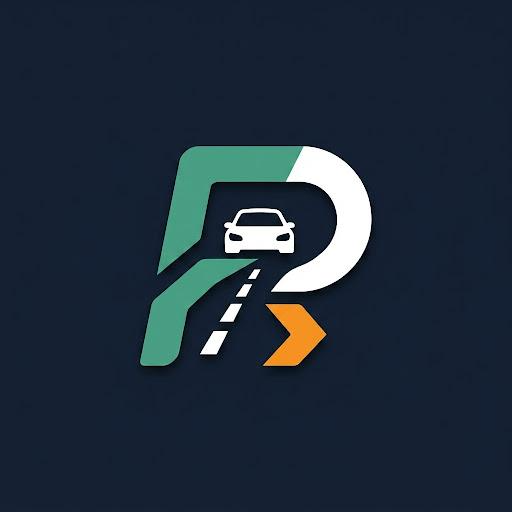
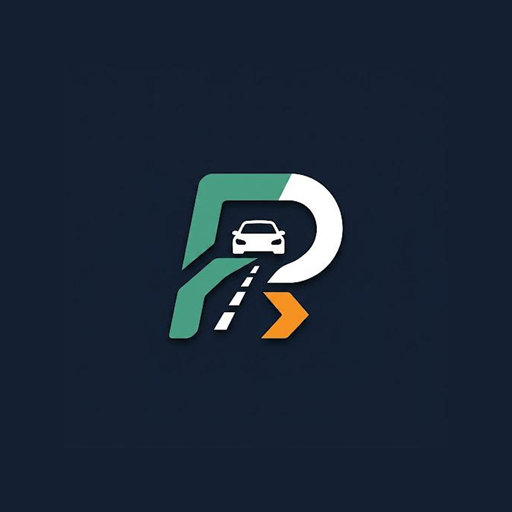
se agrega cambios de ico para instalar pwa

Changed region(s): [[0.25, 0.2812, 0.75, 0.7188]]

diff --git a/index.html b/index.html
@@ -15,10 +15,18 @@
     <meta name="application-name" content="Parking Flow" />
     <meta name="format-detection" content="telephone=no" />
 
-    <!-- Icons -->
-    <link rel="icon" type="image/png" href="/favicon.png" />
-    <link rel="shortcut icon" href="/favicon.ico" />
-    <link rel="apple-touch-icon" sizes="180x180" href="/apple-touch-icon.png" />
+    <!-- Manifest -->
+    <link rel="manifest" href="/manifest.webmanifest" />
+
+    <!-- Icons & Apple Touch Icons -->
+    <link rel="icon" type="image/png" href="/favicon.png?v=0.0.39" />
+    <link rel="shortcut icon" href="/favicon.ico?v=0.0.39" />
+    <link rel="apple-touch-icon" href="/apple-touch-icon.png?v=0.0.39" />
+    <link rel="apple-touch-icon" sizes="180x180" href="/apple-touch-icon.png?v=0.0.39" />
+    <link rel="apple-touch-icon" sizes="152x152" href="/apple-touch-icon.png?v=0.0.39" />
+    <link rel="apple-touch-icon" sizes="167x167" href="/apple-touch-icon.png?v=0.0.39" />
+    <link rel="apple-touch-icon" sizes="120x120" href="/apple-touch-icon.png?v=0.0.39" />
+    <link rel="apple-touch-icon-precomposed" href="/apple-touch-icon.png?v=0.0.39" />
 
     <!-- Fonts -->
     <link rel="preconnect" href="https://fonts.googleapis.com" />

diff --git a/vite.config.ts b/vite.config.ts
@@ -7,13 +7,20 @@ export default defineConfig({
     react(),
     VitePWA({
       registerType: 'autoUpdate',
-      injectRegister: 'auto',
+      devOptions: {
+        enabled: true,
+        type: 'module',
+      },
       includeAssets: [
+        'favicon.ico',
+        'favicon.png',
         'favicon.svg',
         'pwa-192x192.png',
         'pwa-512x512.png',
         'apple-touch-icon.png',
         'maskable-icon-512x512.png',
+        'logo.png',
+        'logo-new.png',
       ],
       manifest: {
         name: 'Parking Flow - Sistema de Gestión de Estacionamiento',
@@ -36,6 +43,12 @@ export default defineConfig({
           {
             src: '/pwa-512x512.png',
             sizes: '512x512',
+            type: 'image/png',
+            purpose: 'any',
+          },
+          {
+            src: '/apple-touch-icon.png',
+            sizes: '180x180',
             type: 'image/png',
             purpose: 'any',
           },

diff --git a/HISTORIAL_CAMBIOS.md b/HISTORIAL_CAMBIOS.md
@@ -7,6 +7,39 @@
 
 ## 📋 Registro Cronológico de Cambios
 
+### [2026-08-28 12:18:00] - [FIX] [PWA] - Corrección Integral de Íconos PWA para Android (Chrome WebAPK) e iOS (Safari)
+
+#### 💬 Prompt Original del Usuario
+> "lo digo desde chorme tambi9en pasa lo probamos en android e igual no toma bien entonces reconsidera bien la respuesta completa."
+
+#### 🤖 Resumen Técnico para la IA
+- **Android Maskable Icon (Safe Zone Padding)**:
+  - Se regeneró `public/maskable-icon-512x512.png` aplicando un margen interno de seguridad del 25% (Safe Zone del W3C/Android WebAPK), escalando el logotipo al 75% centrado sobre el fondo institucional `#141f31`. Esto previene que los lanzadores adaptativos de Android (Samsung, Xiaomi, Pixel) recorten el logotipo o apliquen la marca de agua de Chrome.
+- **Configuración de PWA en `vite.config.ts`**:
+  - Se incluyó `apple-touch-icon.png` (180x180) dentro de la matriz `manifest.icons`.
+  - Se habilitó `devOptions: { enabled: true, type: 'module' }` para permitir la prueba directa de PWA en red local bajo desarrollo.
+  - Se expandió `includeAssets` con todos los recursos gráficos institucionales (`favicon.ico`, `favicon.png`, `favicon.svg`, `pwa-192x192.png`, `pwa-512x512.png`, `apple-touch-icon.png`, `maskable-icon-512x512.png`, `logo.png`, `logo-new.png`).
+- **Encabezados en `index.html`**:
+  - Se declaró explícitamente el `<link rel="manifest" href="/manifest.webmanifest" />`.
+  - Se definieron los enlaces `apple-touch-icon` universales (genérico base sin `sizes`, `180x180`, `152x152`, `167x167`, `120x120`, `precomposed`) con parámetro de versión de invalidación de caché `?v=0.0.39`.
+- **Servidores Web (`.htaccess`)**:
+  - Se añadió la directiva `AddType application/manifest+json .webmanifest` para soporte MIME nativo en Apache.
+
+#### 📦 Componentes Modificados
+- `public/maskable-icon-512x512.png` — Regenerado con Safe Zone del 25%
+- `public/apple-touch-icon.png` — 180x180 optimizado
+- `public/pwa-192x192.png` — 192x192
+- `public/pwa-512x512.png` — 512x512
+- `public/favicon.png` — 180x180
+- `index.html` — Enlaces universales a Apple Touch Icons y Manifest
+- `vite.config.ts` — Inclusión de `apple-touch-icon` en manifest, `devOptions` y assets completos
+- `public/.htaccess` — MIME mapping para `.webmanifest`
+- `.env` — Versión `0.0.39 Dev`
+
+#### ✅ Verificación y Compilación
+- `npm run build` → **0 Errores** (Precache: 30 entries generadas limpiamente).
+
+
 ### [2026-08-28 11:47:00] - [FIX] [PWA] - Corrección de Ícono de Pantalla de Inicio iOS (Apple Touch Icon)
 
 #### 💬 Prompt Original del Usuario
